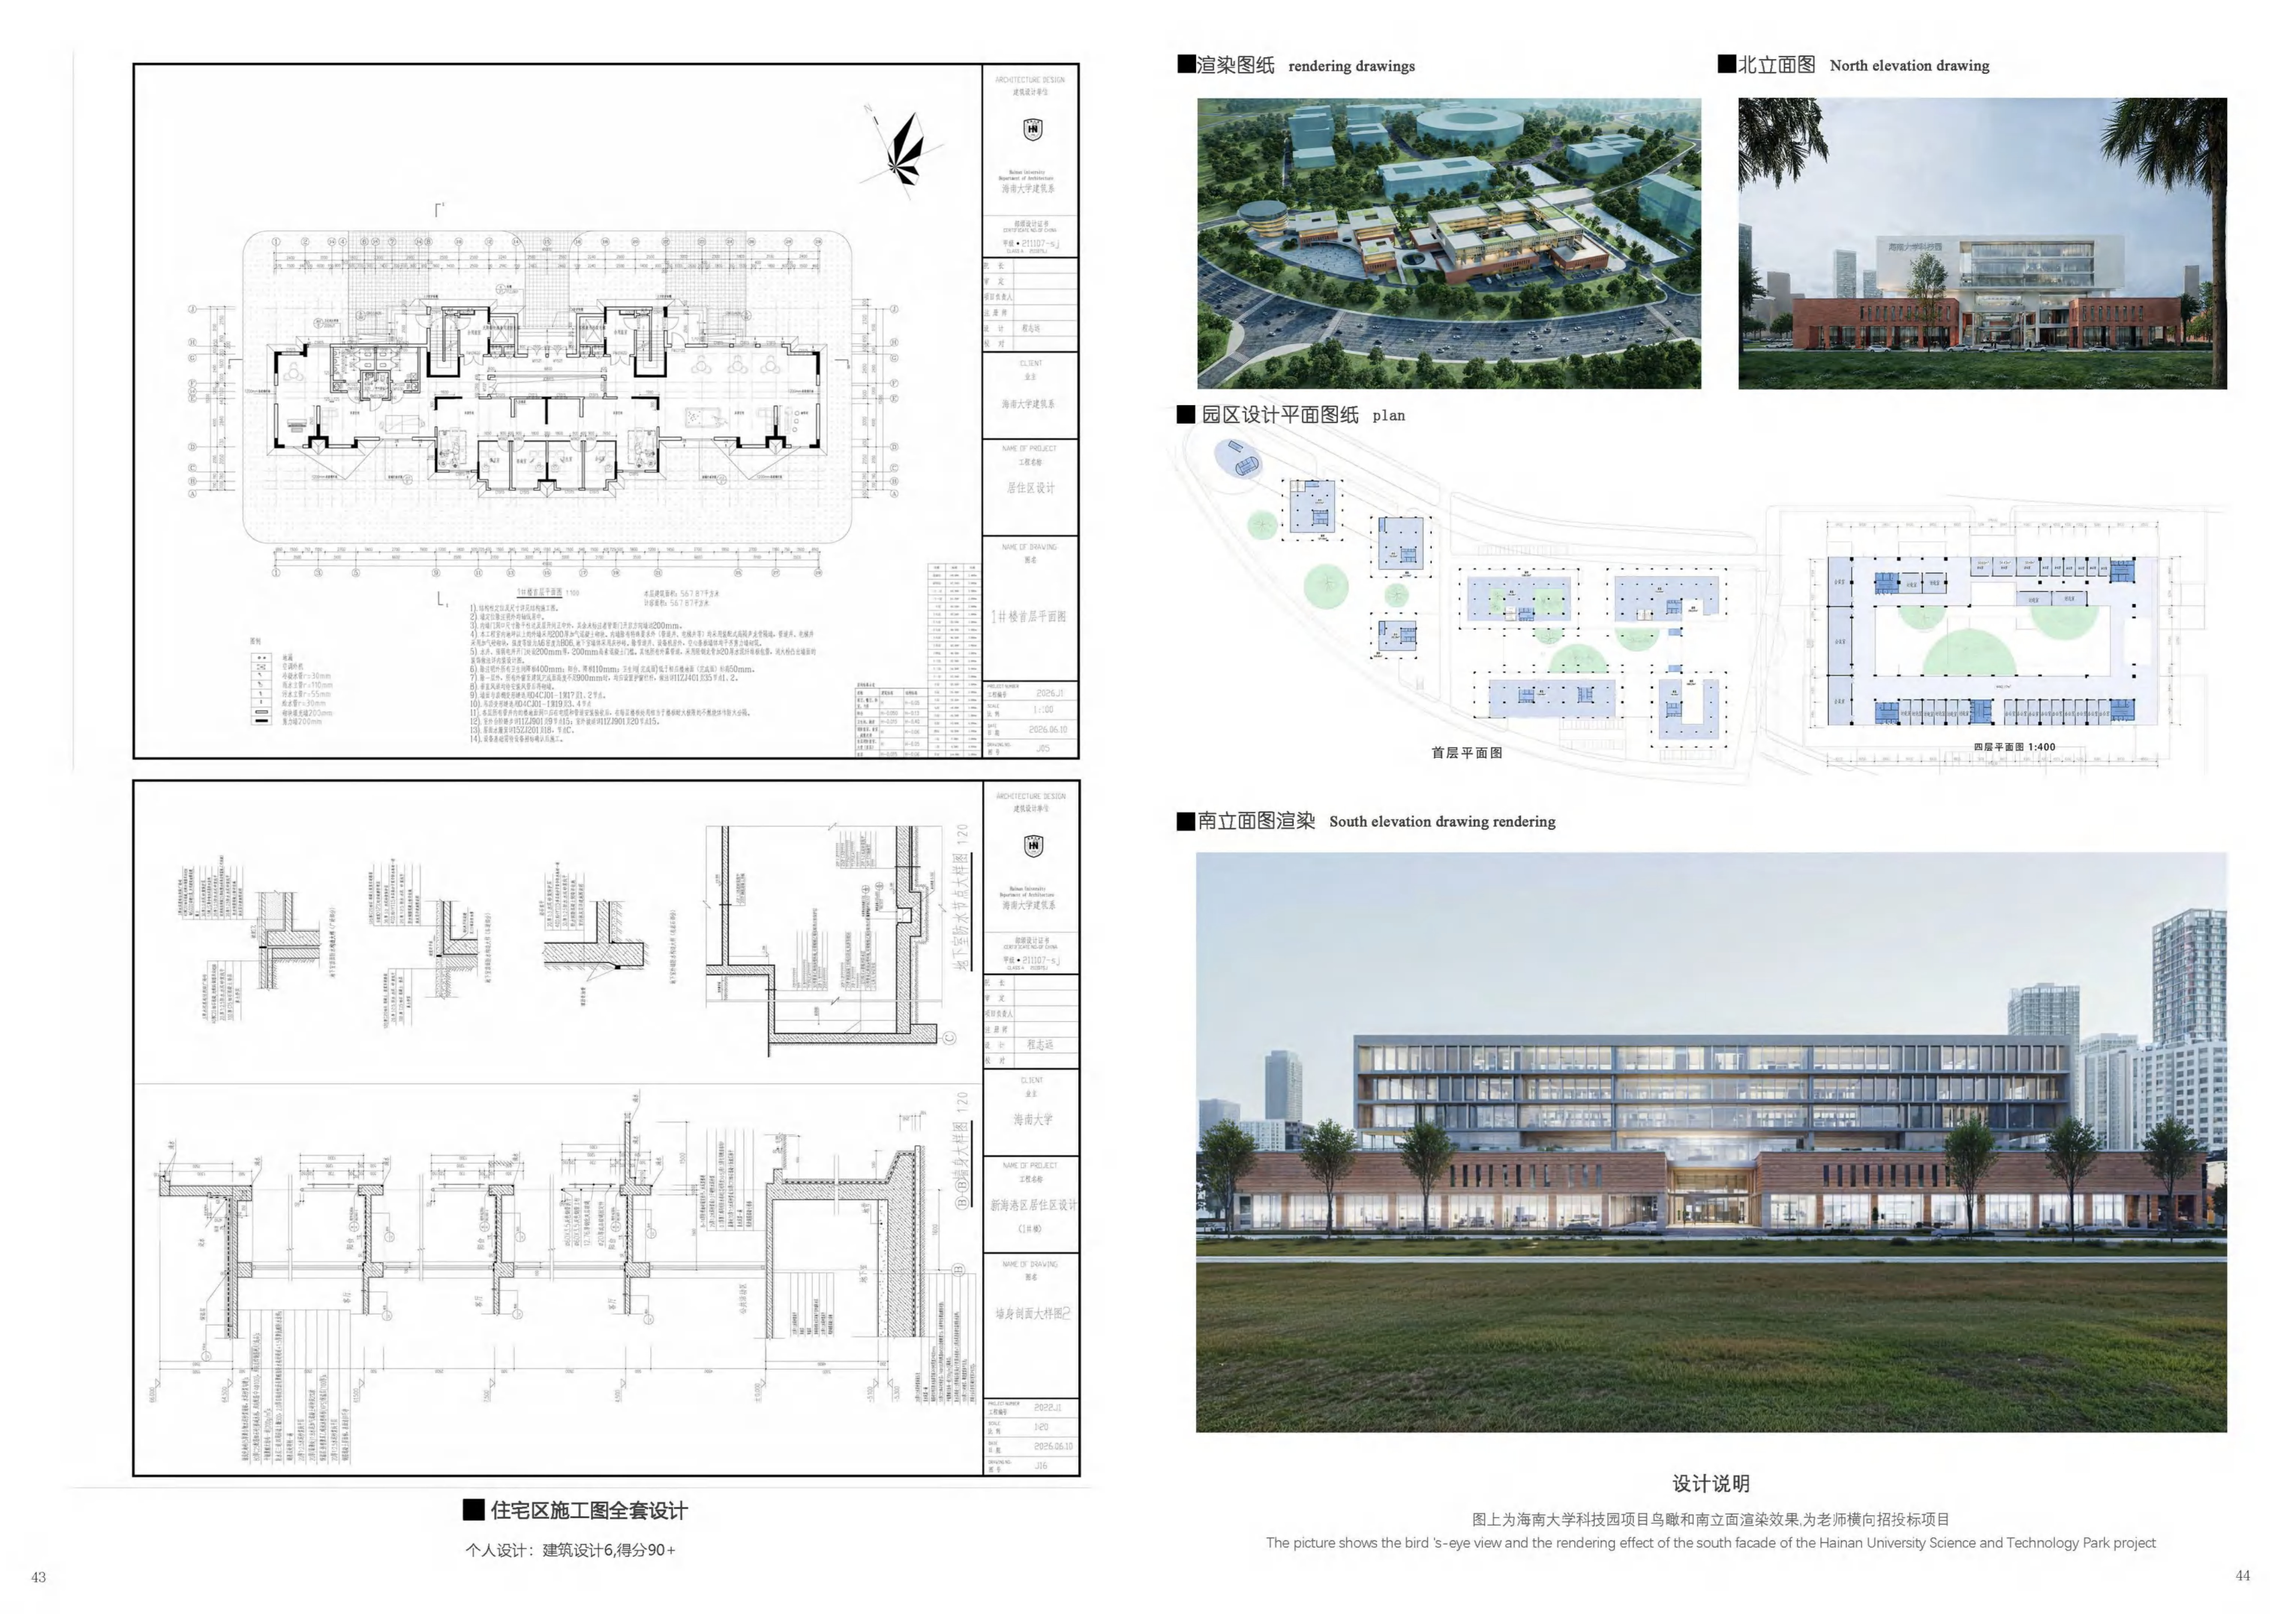
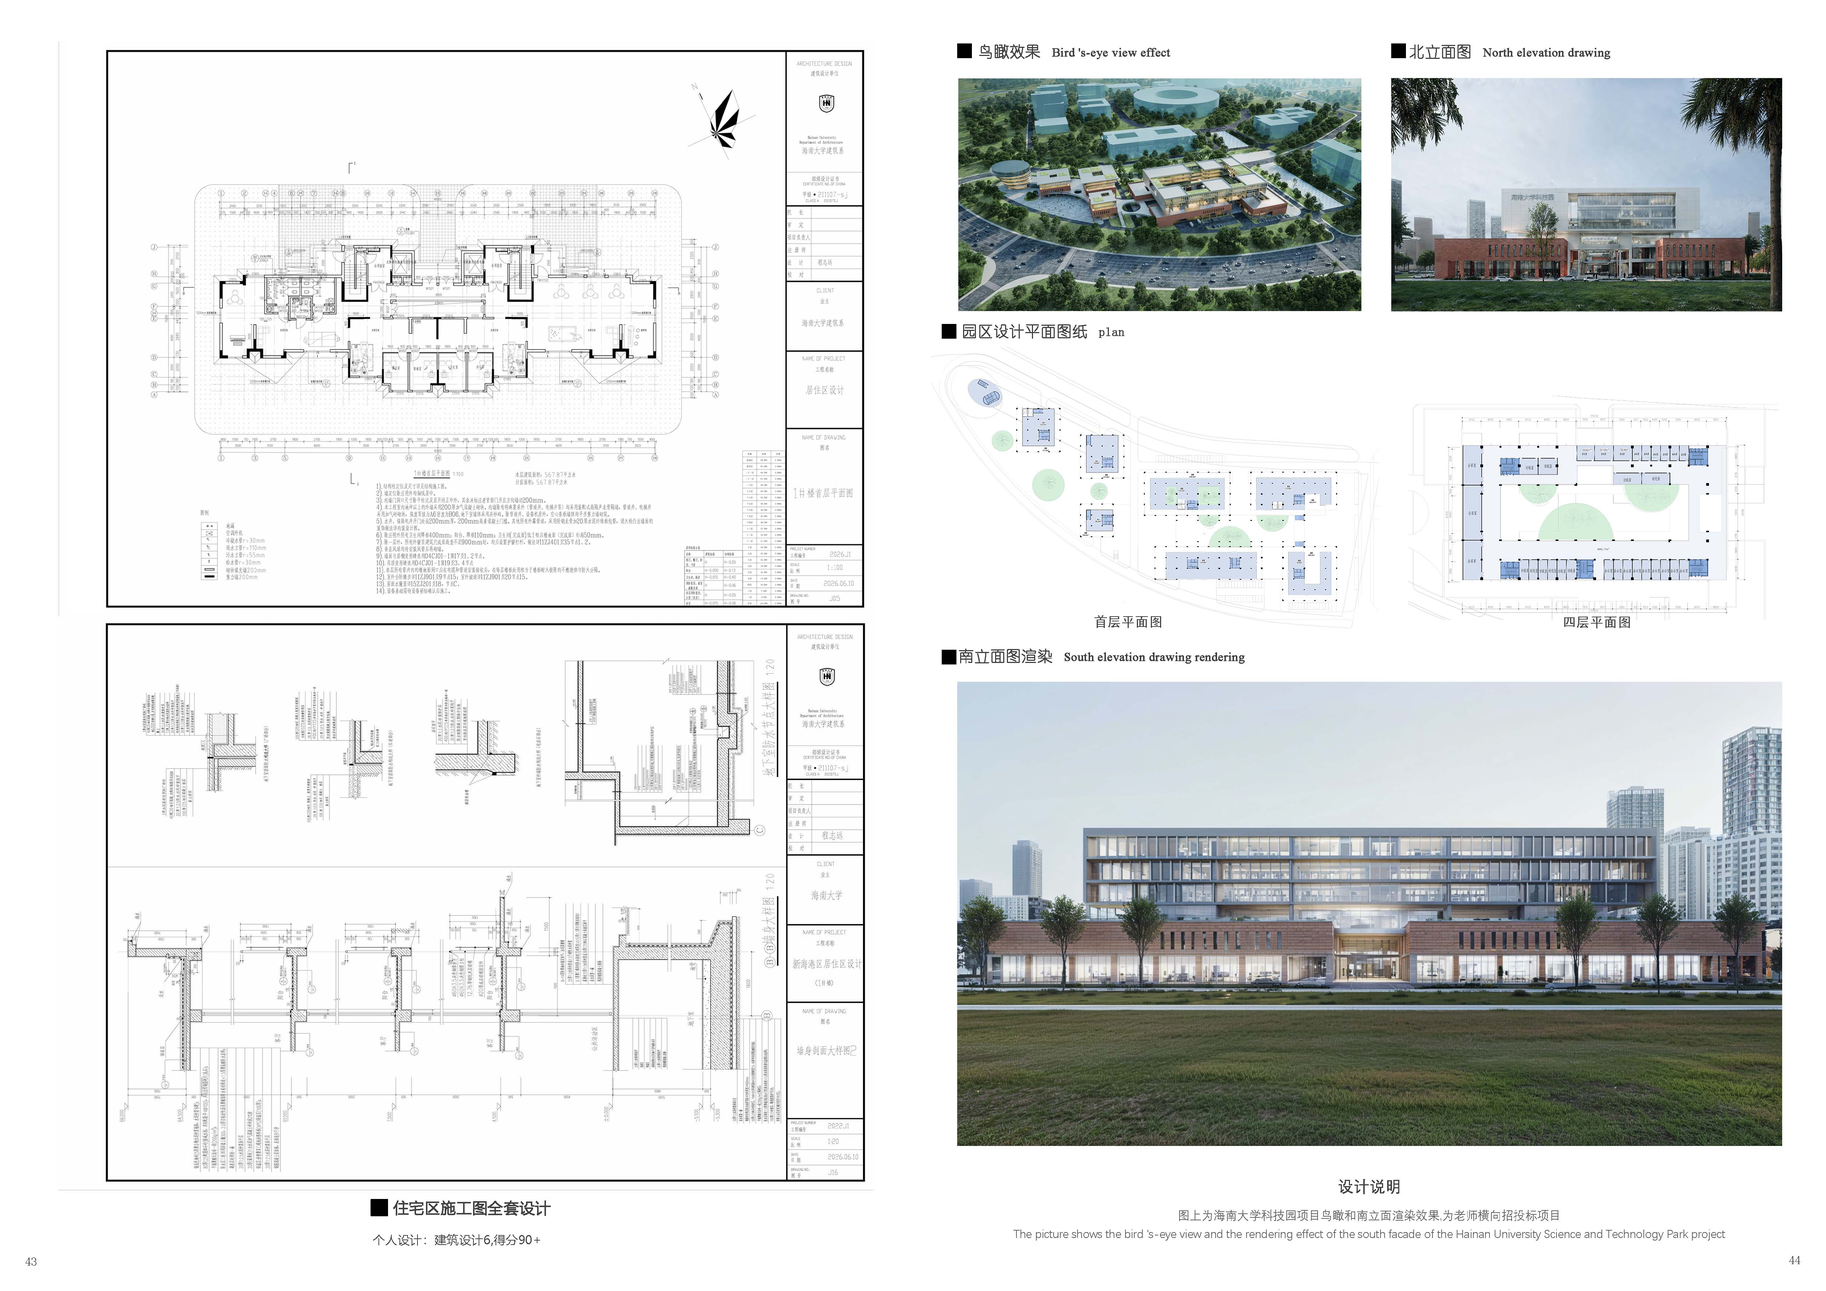
change_page_picture816

diff --git a/progress.md b/progress.md
@@ -71,3 +71,44 @@
 
 ---
 *每个阶段完成后或遇到错误时更新此文件*
+
+---
+
+## 会话：2026-08-15（项目封面编辑式三联画）
+
+### 实现与验证
+- **状态：** complete（浏览器视觉复查待环境可用时补做）
+- 执行的操作：
+  - 将项目 01—05 统一为编辑式双列信息区与下方三联媒体。
+  - 为项目 02 添加主创/队长、导师、区位、周期与团队资料。
+  - 生成并保存社区策略视觉，并用作项目 02 三联图中图。
+  - 调大桌面端三联图间距与移动端纵向间距，避免图片拥挤。
+  - 运行 `npm run build`，构建成功。
+- 创建/修改的文件：
+  - `src/App.tsx`
+  - `src/portfolioData.ts`
+  - `src/styles.css`
+  - `public/assets/project-covers/project-02-community-concept.png`
+  - `docs/superpowers/specs/2026-08-15-project-02-editorial-cover-design.md`
+
+### 版式参考修订
+- **状态：** complete
+- 执行的操作：
+  - 采用用户指定的参考图布局：左侧大标题与资料，右侧以细分隔线组织摘要，底部为“主图—体验图—图纸/策略图”三联。
+  - 将桌面端三联图间距校正为 20—36px，在紧凑与呼吸感之间平衡。
+  - 恢复项目 02 的既有中间素材，并移除未采用的生成图片。
+- 测试：`npm run build` 通过。
+
+### 红框比例修订
+- **状态：** complete
+- 执行的操作：
+  - 将项目 02 与项目 05 的三联媒体改为 1.74 : 1 : 0.82 的明确比例。
+  - 两个项目均按“主图—空间图—图纸”排序，三张图等高对齐。
+  - 运行 `npm run build`，构建成功。
+
+### 全项目比例统一
+- **状态：** complete
+- 执行的操作：
+  - 将项目 01、03、04 也调整为 1.74 : 1 : 0.82 的三图比例。
+  - 项目 01、04 重排为主图、空间图、图纸；项目 03 保持原有叙事顺序。
+  - 运行 `npm run build`，构建成功。

diff --git a/findings.md b/findings.md
@@ -42,3 +42,15 @@
 ---
 *每执行2次查看/浏览器/搜索操作后更新此文件*
 *防止视觉信息丢失*
+
+---
+
+## 项目封面编辑式三联画（2026-08-15）
+
+- 统一后的封面将标题块、资料轨与摘要块拆分为两列；三联媒体独占下一行。
+- 所有项目复用这套结构，项目 02 增加已确认的主创、导师、区位和团队信息。
+- 桌面端三联图使用不等宽列，并设置 `clamp(28px, 3.4vw, 60px)` 间距；通用封面间距为 `clamp(24px, 3vw, 54px)`。移动端改为单列且相邻图片间距为 18px。
+- 用户否决生成的社区策略图；项目 02 恢复使用现有的 `项目2_1.png` 素材，生成图已从项目资源目录移除。
+- 生产构建通过。浏览器视觉自动化两次不可用：Python 运行时缺少 Playwright；备用 Chromium CDP 自动启动失败。
+- 红框比例确认：项目 02 与项目 05 使用 1.74 : 1 : 0.82 的三列，并通过对应的图片宽高比使三张卡片等高。
+- 项目 01、03、04 已采用相同三列比例；因此全部项目封面均使用一致的图像尺寸体系。
